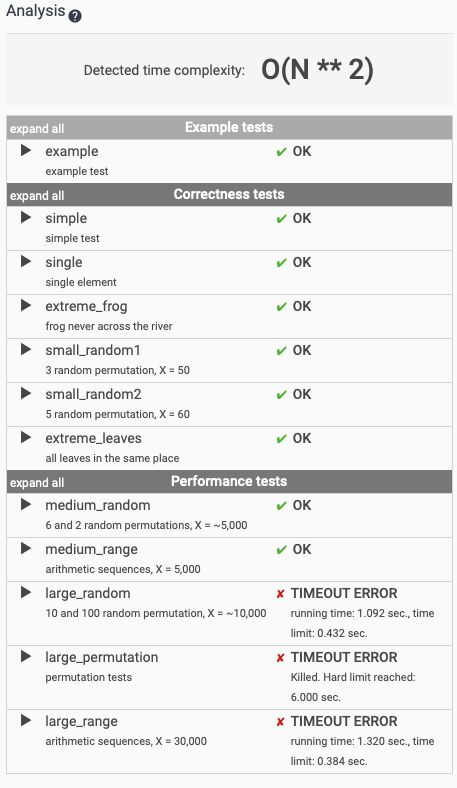
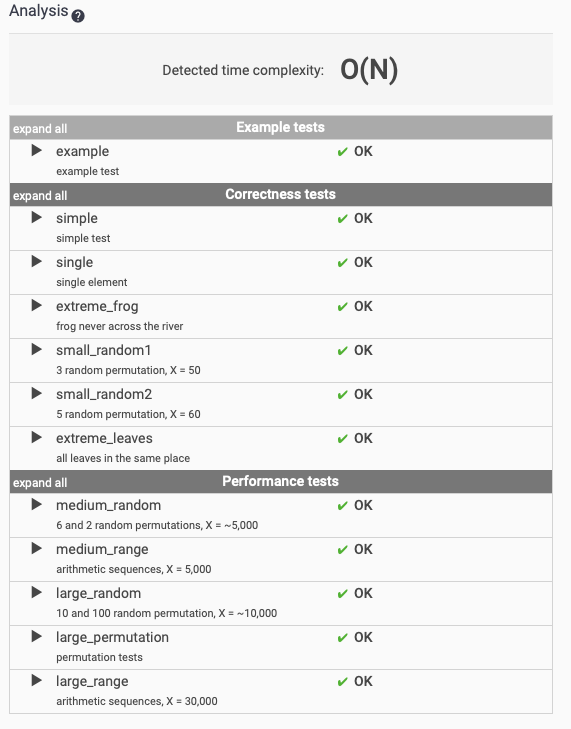
finish "FrogRiverOne" with 100% result

Changed region(s): [[0.0, 0.0604, 1.0, 0.9959], [0.0, 0.0, 0.1838, 0.0302], [0.4289, 0.8148, 0.4902, 0.845]]

diff --git a/7.FrogRiverOne/solution.js b/7.FrogRiverOne/solution.js
@@ -1,23 +1,13 @@
 function solution(X, A){
-  let result = -1;
-  let sum = X * (X + 1)/2;
-  let uniqArr = [];
-  let counter = 0;
+  let holdValues = new Set();
 
-  A.find((item, index) =>{
-    if(!uniqArr.includes(item) && item <= X ){
-      counter += item;
-      uniqArr.push(item)
-    }
+  for( let i = 0; i < A.length; i++ ) {
+    holdValues.add( A[i] );
 
-    if (counter === sum) {
-      result = index;
-      counter = 0;
-    }
+    if( holdValues.size === X ) return i;
+  }
 
-  });
-
-  console.log(result);
+  return -1;
 }
 
 solution(5, [1, 3, 1, 4, 2, 3, 5, 1]);
